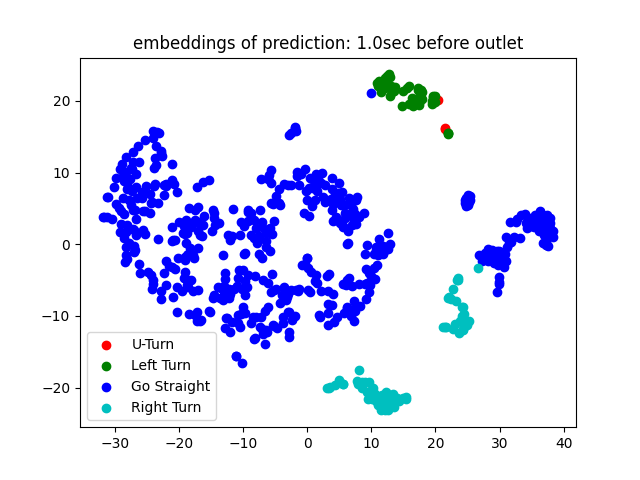
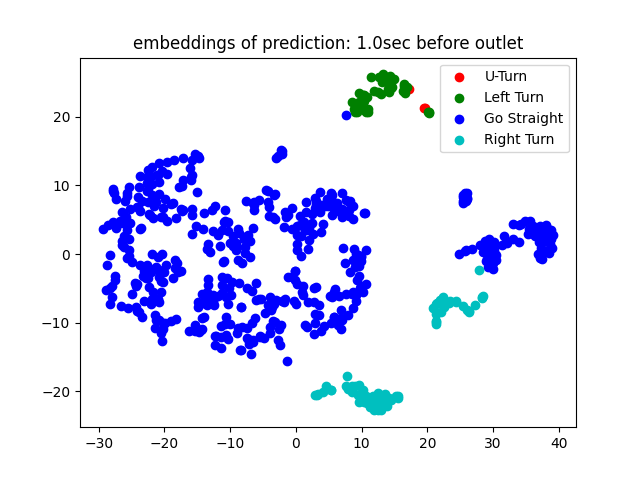
'asdf'

diff --git a/train_maneuver_classification.py b/train_maneuver_classification.py
@@ -156,12 +156,7 @@ n_components = 2
 tsne_target = TSNE(n_components=n_components,
             perplexity=30,
             verbose=True)
-tsne_pred = [TSNE(n_components=n_components,
-            perplexity=30,
-            verbose=True) for _ in range(10)]
-tsne_hist = [TSNE(n_components=n_components,
-            perplexity=30,
-            verbose=True) for _ in range(10)]
+
 
 target_tsne = tsne_target.fit(target_bag)
 target_tsne_u_turn = target_tsne[maneuver_bag[:,0] == 1]
@@ -179,36 +174,39 @@ plt.savefig(tsne_dir+'/outlet_embedding.png')
 plt.close()
 
 for i in range(10):
-    preds = pred_bag[i][pred_bag[i][:,0] != 0]
-    maneuver_bags = maneuver_bag[pred_bag[i][:,0] != 0]
+    hists = hist_bag[i][hist_bag[i][:, 0] != 0]
+    maneuver_bags = maneuver_bag[hist_bag[i][:, 0] != 0]
     plt.figure()
-    pred_tsne = tsne_pred[i].fit(preds)
-    pred_tsne_u_turn = pred_tsne[maneuver_bags[:, 0] == 1]
-    pred_tsne_left_turn = pred_tsne[maneuver_bags[:, 1] == 1]
-    pred_tsne_go_straight = pred_tsne[maneuver_bags[:, 2] == 1]
-    pred_tsne_right_turn = pred_tsne[maneuver_bags[:, 3] == 1]
-    plt.scatter(pred_tsne_u_turn[:, 0], pred_tsne_u_turn[:, 1], c='r', label='U-Turn')
-    plt.scatter(pred_tsne_left_turn[:, 0], pred_tsne_left_turn[:, 1], c='g', label='Left Turn')
-    plt.scatter(pred_tsne_go_straight[:, 0], pred_tsne_go_straight[:, 1], c='b', label='Go Straight')
-    plt.scatter(pred_tsne_right_turn[:, 0], pred_tsne_right_turn[:, 1], c='c', label='Right Turn')
-    plt.legend()
-    plt.title('embeddings of prediction: ' + str(0.5*(10-i)) +'sec before outlet')
-    plt.savefig(tsne_dir+'/'+str(0.5*(10-i)) + 'sec_pred.png')
-    plt.close()
-
-    hists = hist_bag[i][hist_bag[i][:,0] != 0]
-    plt.figure()
-    hist_tsne = tsne_hist[i].fit(hists)
-    hist_tsne_u_turn = hist_tsne[maneuver_bags[:, 0] == 1]
-    hist_tsne_left_turn = hist_tsne[maneuver_bags[:, 1] == 1]
-    hist_tsne_go_straight = hist_tsne[maneuver_bags[:, 2] == 1]
-    hist_tsne_right_turn = hist_tsne[maneuver_bags[:, 3] == 1]
+    hist_tsne_tmp = target_tsne.transform(hists)
+    hist_tsne_u_turn = hist_tsne_tmp[maneuver_bags[:, 0] == 1]
+    hist_tsne_left_turn = hist_tsne_tmp[maneuver_bags[:, 1] == 1]
+    hist_tsne_go_straight = hist_tsne_tmp[maneuver_bags[:, 2] == 1]
+    hist_tsne_right_turn = hist_tsne_tmp[maneuver_bags[:, 3] == 1]
     plt.scatter(hist_tsne_u_turn[:, 0], hist_tsne_u_turn[:, 1], c='r', label='U-Turn')
     plt.scatter(hist_tsne_left_turn[:, 0], hist_tsne_left_turn[:, 1], c='g', label='Left Turn')
     plt.scatter(hist_tsne_go_straight[:, 0], hist_tsne_go_straight[:, 1], c='b', label='Go Straight')
     plt.scatter(hist_tsne_right_turn[:, 0], hist_tsne_right_turn[:, 1], c='c', label='Right Turn')
     plt.legend()
-    plt.title('embeddings of hist observations: ' + str(0.5*(10-i)) +'sec before outlet')
-    plt.savefig(tsne_dir+'/up_to_'+str(0.5*(10-i)) + 'sec_before.png')
+    plt.title('embeddings of hist observations: ' + str(0.5 * (10 - i)) + 'sec before outlet')
+    plt.savefig(tsne_dir + '/hist_embedding_on_0.5sec_tSNE' + str(0.5 * (10 - i)) + 'sec_before.png')
     plt.close()
-
+#
+# hist_total = np.concatenate(hist_bag)
+# hist_total_filter = hist_total[hist_total[:, 0] != 0]
+# maneuver_total = np.tile(maneuver_bags, (len(hist_bag),1))
+# maneuver_total_filter = maneuver_total[hist_total[:, 0] != 0]
+#
+# tsne_total = hist_tsne.transform(hist_total_filter)
+# plt.figure()
+# tsne_total_u_turn = tsne_total[maneuver_total_filter[:, 0] == 1]
+# tsne_total_left_turn = tsne_total[maneuver_total_filter[:, 1] == 1]
+# tsne_total_go_straight = tsne_total[maneuver_total_filter[:, 2] == 1]
+# tsne_total_right_turn = tsne_total[maneuver_total_filter[:, 3] == 1]
+# plt.scatter(tsne_total_u_turn[:, 0], tsne_total_u_turn[:, 1], c='r', label='U-Turn')
+# plt.scatter(tsne_total_left_turn[:, 0], tsne_total_left_turn[:, 1], c='g', label='Left Turn')
+# plt.scatter(tsne_total_go_straight[:, 0], tsne_total_go_straight[:, 1], c='b', label='Go Straight')
+# plt.scatter(tsne_total_right_turn[:, 0], tsne_total_right_turn[:, 1], c='c', label='Right Turn')
+# plt.legend()
+# plt.title('embeddings of hist observations: ' + str(0.5 * (10 - i)) + 'sec before outlet')
+# plt.savefig(tsne_dir + '/up_to_' + str(0.5 * (10 - i)) + 'sec_before.png')
+# plt.close()

diff --git a/model/representation_learning/Net.py b/model/representation_learning/Net.py
@@ -18,7 +18,7 @@ class BackBone(nn.Module):
         self.config = config
         self.encoder = Encoder(config)
         self.autoregressive = AutoRegressive(config)
-        self.Wk = nn.ModuleList([nn.Linear(int(config["n_hidden_after_deconv"] / 2), config["n_hidden_after_deconv"]) for i in range(config["max_pred_time"] * config["hz"])])
+        self.Wk = nn.ModuleList([nn.Linear(config["n_hidden_after_deconv"], config["n_hidden_after_deconv"]) for i in range(config["max_pred_time"] * config["hz"])])
         self.softmax = nn.Softmax()
         self.lsoftmax = nn.LogSoftmax()
 

diff --git a/model/representation_learning/modules/autoregressive.py b/model/representation_learning/modules/autoregressive.py
@@ -17,7 +17,7 @@ class AutoRegressive(nn.Module):
     def __init__(self, config):
         super(AutoRegressive, self).__init__()
         self.config = config
-        self.gru = nn.GRU(config["n_hidden_after_deconv"], int(config["n_hidden_after_deconv"]/2), num_layers=1, bidirectional=False, batch_first=True)
+        self.gru = nn.GRU(config["n_hidden_after_deconv"], config["n_hidden_after_deconv"], num_layers=1, bidirectional=False, batch_first=True)
 
     def forward(self, ar_in, seg_length):
         batch_list = []
